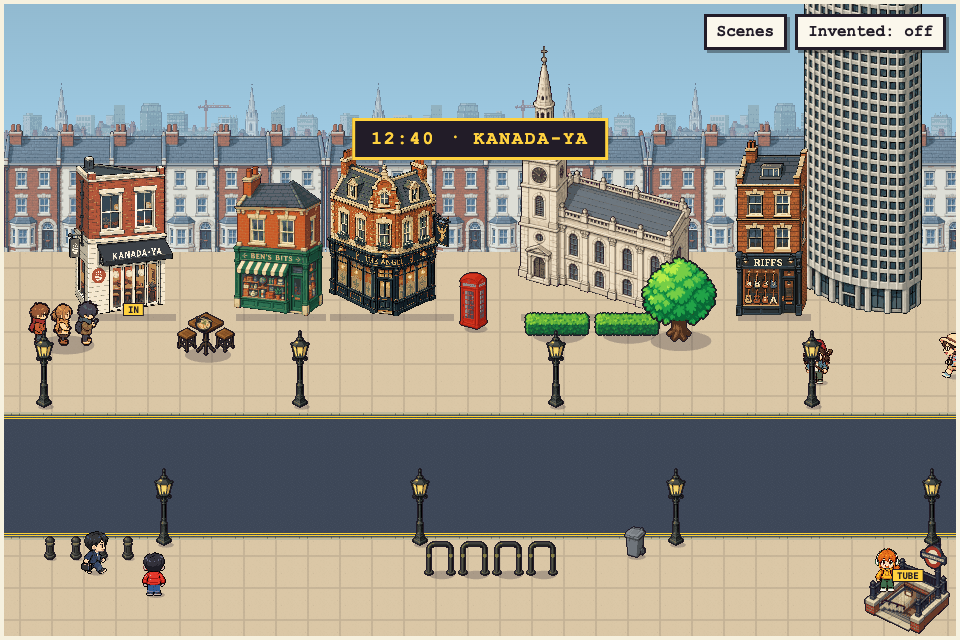
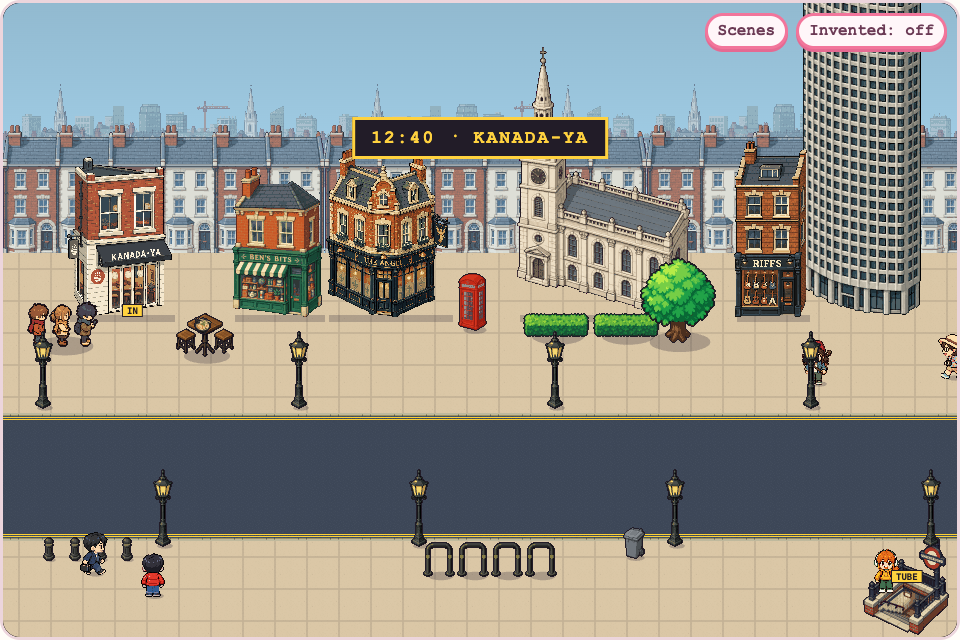
Demo: pink redesign for the generating screen and day page; three photos required before the world is ready
- /generating and /day/demo use the reworked design (top bar, pastel cards,
  pixel headings, pill buttons); the game keeps its 960x640 frame
- Try me shows 'N of 3 photos added' and outlines missing slots until Fit,
  Food and Place are all in; Create my world stays disabled until then
- in-game Scenes / Invented buttons in the pink palette

Changed region(s): [[0.0, 0.0, 1.0, 1.0], [0.2812, 0.5312, 0.3438, 0.5938]]

diff --git a/components/day/DemoDayViewer.tsx b/components/day/DemoDayViewer.tsx
@@ -2,11 +2,14 @@
 
 import Link from "next/link";
 import { useEffect, useRef, useState } from "react";
+import { createPortal } from "react-dom";
 import { DEMO_DAY, DEMO_SPRITE_URL } from "@/lib/demo";
-import styles from "./day.module.css";
+import PixelSprite from "@/components/today/pixel";
+import SoundToggle from "@/components/today/SoundToggle";
+import styles from "./demo-day.module.css";
 
-const box = { background: "#fbf7ec", color: "#221c28", border: "4px solid #221c28", boxShadow: "inset 0 0 0 4px #e3d9bd, 6px 6px 0 rgba(0,0,0,.45)", padding: "18px 22px", width: "min(420px, calc(100vw - 32px))", textAlign: "center" as const, font: "700 13px monospace" };
-const btn = { background: "#fff", color: "#221c28", border: "3px solid #221c28", padding: "6px 12px", font: "700 12px monospace", cursor: "pointer", boxShadow: "3px 3px 0 rgba(0,0,0,.25)" };
+const tabs = [{ href: "/", id: "try", label: "Try me" }, { href: "/demo", id: "demo", label: "Demo" }] as const;
+const cardTones = ["dq-card-pink", "dq-card-butter", "dq-card-mint"] as const;
 
 /** Demo-only "share as video clip": a short render bar, then a looping preview of the day's places. Calls nothing. */
 function ClipShare() {
@@ -32,21 +35,21 @@ function ClipShare() {
   useEffect(() => { if (!toast) return; const t = setTimeout(() => setToast(""), 1400); return () => clearTimeout(t); }, [toast]);
   const scene = DEMO_DAY.scenes[frame];
   return <>
-    <button type="button" className={styles.share} onClick={() => { setProgress(0); setFrame(0); setState("rendering"); }}>SHARE AS VIDEO CLIP ▶</button>
-    {state !== "idle" && <div role="dialog" aria-label="Share as video clip" style={{ position: "fixed", inset: 0, zIndex: 20, display: "grid", placeItems: "center", background: "rgba(16,14,22,.7)" }}>
-      <div style={box}>
-        {state === "rendering" ? <><p>RENDERING YOUR DAY…</p><div style={{ height: 12, border: "3px solid #221c28", background: "#fff" }}><span style={{ display: "block", height: "100%", width: `${progress * 100}%`, background: "#d8342c" }} /></div></> : <>
-          <div style={{ aspectRatio: "3 / 2", border: "3px solid #221c28", background: "#a9d4f5", display: "grid", placeItems: "center", position: "relative" }}>
-            <img src={scene.thumb} alt={scene.title} style={{ maxHeight: "80%", maxWidth: "80%", imageRendering: "pixelated" }} />
-            <span style={{ position: "absolute", left: 8, bottom: 6, background: "#221c28", color: "#ffd23f", padding: "2px 6px", fontSize: 11 }}>{scene.time} · {scene.title.toUpperCase()}</span>
+    <button type="button" className={`dq-big-button ${styles.pill}`} onClick={() => { setProgress(0); setFrame(0); setState("rendering"); }}>SHARE AS VIDEO CLIP ▶</button>
+    {state !== "idle" && createPortal(<div role="dialog" aria-label="Share as video clip" className={styles.overlay}>
+      <div className={`dq-card dq-card-pink ${styles.modal}`}>
+        {state === "rendering" ? <><p>Rendering your day…</p><div className={styles.bar}><span style={{ width: `${progress * 100}%` }} /></div></> : <>
+          <div className={styles.preview}>
+            <img src={scene.thumb} alt={scene.title} />
+            <span>{scene.time} · {scene.title}</span>
           </div>
           <p>{DEMO_DAY.name.toLowerCase()}-day.mp4 · 0:30</p>
-          <div style={{ display: "flex", gap: 10, justifyContent: "center" }}>{([["Copy link", "Copied!"], ["Save", "Saved!"], ["Post", "Shared!"]] as const).map(([label, msg]) => <button key={label} type="button" style={btn} onClick={() => setToast(msg)}>{label}</button>)}</div>
-          <button type="button" onClick={() => setState("idle")} style={{ ...btn, border: 0, boxShadow: "none", background: "none", textDecoration: "underline", marginTop: 10 }}>Close</button>
+          <div className={styles.modalActions}>{([["Copy link", "Copied!"], ["Save", "Saved!"], ["Post", "Shared!"]] as const).map(([label, msg]) => <button key={label} type="button" className="dq-small-button" onClick={() => setToast(msg)}>{label}</button>)}</div>
+          <button type="button" onClick={() => setState("idle")} className={styles.close}>Close</button>
         </>}
       </div>
-      {toast && <p role="status" style={{ position: "fixed", bottom: 24, left: "50%", transform: "translateX(-50%)", background: "#221c28", color: "#ffd23f", border: "3px solid #ffd23f", padding: "8px 16px", font: "700 13px monospace" }}>{toast}</p>}
-    </div>}
+      {toast && <p role="status" className={styles.toast}>{toast}</p>}
+    </div>, document.body)}
   </>;
 }
 
@@ -66,36 +69,47 @@ export function DemoDayViewer() {
       setShareState("fallback");
     }
   }
-  return <main className={styles.viewer}>
-    <header className={styles.header}>
-      <Link href="/" className={styles.brand}>DAYQUEST<span>A day worth visiting</span></Link>
-      <div style={{ display: "flex", gap: 10, flexWrap: "wrap" }}>
-        <ClipShare />
-        <button type="button" onClick={share} className={styles.share}>{shareState === "copied" ? "LINK COPIED ✓" : "SHARE THIS DAY ↗"}</button>
-      </div>
-    </header>
-    <p className={styles.shareStatus} aria-live="polite">{shareState === "copied" ? "Day link copied to clipboard." : ""}</p>
-    {shareState === "fallback" && <label className={styles.copyLabel}>Copy this day link<input readOnly value={shareUrl} onFocus={(event) => event.target.select()} aria-label="Day share link" /></label>}
-    <section className={styles.intro}>
-      <div><p className={styles.kicker}>A LITTLE WINDOW INTO THEIR DAY</p><h1>{DEMO_DAY.name}&apos;s day</h1><p className={styles.date}>{DEMO_DAY.date}</p></div>
-      {/* The sprite is already pixel processed; preserve its exact pixels. */}
-      <div className={styles.player}><img src={DEMO_SPRITE_URL} width={64} height={96} alt={`${DEMO_DAY.name}'s character`} /></div>
-    </section>
-    <section aria-label="Playable day" style={{ display: "flex", flexDirection: "column", alignItems: "center", background: "#1f1a2e", padding: 12 }}>
-      <p style={{ color: "#f6f1df", font: "11px monospace", lineHeight: 1.6, textAlign: "center", margin: "0 0 8px" }}>
-        Click the world to play · Arrows / WASD: walk · Shift: run · Space / Enter: read · Walk onto the yellow signs to travel
-      </p>
-      <iframe ref={frame} src={DEMO_DAY.game} title={`${DEMO_DAY.name}'s day in London`} onLoad={() => frame.current?.focus()}
-        style={{ width: "100%", maxWidth: 960, height: "clamp(440px, 66.6vw, 640px)", border: "4px solid #f6f1df", background: "#14121a" }} />
-    </section>
-    <section className={styles.itinerary} aria-labelledby="itinerary-title">
-      <div className={styles.sectionHeading}><h2 id="itinerary-title">Today&apos;s places</h2><span>{DEMO_DAY.scenes.length} CHAPTERS</span></div>
-      <ol className={styles.scenes}>{DEMO_DAY.scenes.map((scene, index) => <li key={scene.title}>
-        <span className={styles.sceneNumber}>0{index + 1}</span><p className={styles.kicker}>{scene.time} · {scene.kind.toUpperCase()}</p><h3>{scene.title}</h3>
-        <p>{scene.landmarks.join(" · ")}</p><p>{scene.text}</p>
-        {index < DEMO_DAY.transit.length && <p className={styles.kicker}>↓ {DEMO_DAY.transit[index]}</p>}
-      </li>)}</ol>
-    </section>
-    <footer className={styles.footer}><span>Every day becomes a place you can visit.</span><Link href="/">Create your day →</Link></footer>
-  </main>;
+  // Same frame as AppShell, but the game gets its own wider column so the iframe can stay ≥960px.
+  return <div className="dq-app">
+    <div className="dq-sky" aria-hidden="true"><PixelSprite name="cloud" size={6} className="dq-cloud dq-cloud-a" /><PixelSprite name="cloud" size={4} className="dq-cloud dq-cloud-b" /></div>
+    <header className="dq-topbar"><Link href="/" className="dq-wordmark"><PixelSprite name="cat" size={2.5} className="dq-logo-sprite" /><span>dayquest</span></Link>
+      <div className="dq-topbar-end"><nav className="dq-tabs" aria-label="Pages">{tabs.map(tab => <Link key={tab.id} href={tab.href} className={tab.id === "demo" ? "is-active" : undefined} aria-current={tab.id === "demo" ? "page" : undefined}>{tab.label}</Link>)}</nav><SoundToggle /></div></header>
+    <main className="dq-main">
+      <section className="dq-card dq-card-lav">
+        <div className={styles.head}>
+          <div className={styles.title}><span className={styles.kicker}>A little window into their day</span><h1>{DEMO_DAY.name}&apos;s day</h1><p className={styles.sub}>{DEMO_DAY.date}</p></div>
+          {/* The sprite is already pixel processed; preserve its exact pixels. */}
+          <div className={styles.player}><img src={DEMO_SPRITE_URL} width={64} height={96} alt={`${DEMO_DAY.name}'s character`} /></div>
+        </div>
+        <div className={styles.shareRow}>
+          <ClipShare />
+          <button type="button" onClick={share} className={`dq-big-button ${styles.pill}`}>{shareState === "copied" ? "LINK COPIED ✓" : "SHARE THIS DAY ↗"}</button>
+        </div>
+        <p className={styles.status} aria-live="polite" hidden={shareState !== "copied"}>{shareState === "copied" ? "Day link copied to clipboard." : ""}</p>
+        {shareState === "fallback" && <label className={styles.copy}>Copy this day link<input readOnly value={shareUrl} onFocus={(event) => event.target.select()} aria-label="Day share link" /></label>}
+      </section>
+    </main>
+    <div className={styles.gameWrap}>
+      <section aria-label="Playable day" className={styles.game}>
+        <p className={styles.hint}>Click the world to play · Arrows / WASD: walk · Shift: run · Space / Enter: read · Walk onto the yellow signs to travel</p>
+        <iframe ref={frame} src={DEMO_DAY.game} title={`${DEMO_DAY.name}'s day in London`} onLoad={() => frame.current?.focus()} className={styles.frame} />
+      </section>
+    </div>
+    <div className="dq-main">
+      <section aria-labelledby="itinerary-title" style={{ display: "grid", gap: 18 }}>
+        <div className={styles.sectionHead}><h2 id="itinerary-title">Today&apos;s places</h2><span className={styles.count}>{DEMO_DAY.scenes.length} chapters</span></div>
+        <ol className={styles.scenes}>{DEMO_DAY.scenes.map((scene, index) => <li key={scene.title} className={`dq-card ${cardTones[index % cardTones.length]} ${styles.scene}`}>
+          <div className={styles.sceneTop}>
+            <div className={styles.thumb}><img src={scene.thumb} alt="" /></div>
+            <div><span className={styles.kicker}>0{index + 1} · {scene.time} · {scene.kind}</span><h3>{scene.title}</h3></div>
+          </div>
+          <p className={styles.landmarks}>{scene.landmarks.join(" · ")}</p>
+          <p className={styles.text}>{scene.text}</p>
+          {index < DEMO_DAY.transit.length && <span className={`dq-chip ${styles.leg} ${index % 2 ? styles.legMint : ""}`}>↓ {DEMO_DAY.transit[index]}</span>}
+        </li>)}</ol>
+      </section>
+      <div className={styles.cta}><p>Every day becomes a place you can visit.</p><Link href="/" className="dq-big-button">Create your day →</Link></div>
+    </div>
+    <footer className="dq-footer"><PixelSprite name="flower" size={2} /><span>Share your day with someone you love</span><PixelSprite name="flower" size={2} /></footer>
+  </div>;
 }

diff --git a/components/today/Today.tsx b/components/today/Today.tsx
@@ -231,7 +231,11 @@ export default function Today({ demo = false }: { demo?: boolean }) {
   const pendingChanges = Object.values(photos).some(p => p.pending) || gallery.failed;
   const pendingFitChanges = !!photos.fit?.pending;
   const spriteReady = !!spriteUrl && spriteVerification?.url === spriteUrl && spriteVerification.status === "ready";
-  const canFinish = !!photos.fit?.url && spriteReady && !pendingChanges && !uploading && !spriteBusy && !storageError;
+  // all three asked-for photos (fit, food, place) must be in before the world can be made
+  const have = { fit: !!photos.fit?.url, lunch: gallery.items.some(item => item.kind === "lunch" && item.url), landmark: gallery.items.some(item => item.kind === "landmark" && item.url) };
+  const added = Object.values(have).filter(Boolean).length, allThree = added === 3;
+  const missingNames = [!have.fit && "Fit", !have.lunch && "Food", !have.landmark && "Place"].filter(Boolean).join(" and ");
+  const canFinish = allThree && spriteReady && !pendingChanges && !uploading && !spriteBusy && !storageError;
   function finishDay() {
     if (!canFinish || Object.keys(pendingFiles.current).length || generationRunning.current) return;
     if (DEMO_MODE) { sfx.fanfare(); router.push("/generating"); return; }
@@ -250,14 +254,14 @@ export default function Today({ demo = false }: { demo?: boolean }) {
       setStorageError("Your browser could not save this draft. Enable session storage to continue.");
     }
   }
-  const finishHint = spriteBusy ? "Making your character…" : !photos.fit?.url ? "Add your fit to begin" : uploading ? "Saving…" : pendingChanges ? "Retry or remove failed photos" : spriteReady ? "All set!" : spriteUrl ? "Check your character preview" : "Waiting for your character";
+  const finishHint = !allThree && !spriteBusy ? `${added} of 3 photos added · add your ${missingNames} photo` : spriteBusy ? "Making your character…" : !photos.fit?.url ? "Add your fit to begin" : uploading ? "Saving…" : pendingChanges ? "Retry or remove failed photos" : spriteReady ? "All set!" : spriteUrl ? "Check your character preview" : "Waiting for your character";
   return <AppShell active={demo ? "demo" : "try"}>
     <section className="dq-card dq-card-pink" aria-labelledby="photos-title">
       <div className="dq-quest-head">
         <div className="dq-quest-title"><span className="dq-date">{today ? today.toLocaleDateString("en-GB", { weekday: "long", day: "numeric", month: "long" }) : "\u00a0"}</span><h1 id="photos-title">{demo ? "Lucas · sample day" : "Your day"}</h1><p className="dq-subtitle">{demo ? "A sample made with demo photos." : "What did today look like?"}</p></div>
         <span className="dq-chip dq-chip-pink" aria-label={`${uploaded} photos added`}>{uploaded} {uploaded === 1 ? "photo" : "photos"}</span>
       </div>
-      <div className="dq-photo-grid">{quests.map(quest => { const photo = photos[quest.kind]; return <div className={`dq-photo-card dq-photo-${quest.kind} ${photo?.url ? "is-uploaded" : ""}`} key={quest.kind}>
+      <div className="dq-photo-grid">{quests.map(quest => { const photo = photos[quest.kind]; return <div className={`dq-photo-card dq-photo-${quest.kind} ${photo?.url ? "is-uploaded" : ""}`} key={quest.kind} style={!photo?.url && !demo ? { outline: "3px dashed #f2759b", outlineOffset: 3 } : undefined}>
         <div className="dq-photo-head"><h3>{quest.name}</h3>{!demo && <CameraButton label={`Take a photo for ${quest.name}`} disabled={!sessionId} onFile={file => void upload(quest.kind, file)} />}</div>
         <label className="dq-upload-zone" onDragOver={event => event.preventDefault()} onDrop={event => { event.preventDefault(); void upload(quest.kind, event.dataTransfer.files[0]); }}>
           <input type="file" accept="image/jpeg,image/png,image/webp" aria-label={`Upload ${quest.name}`} disabled={!sessionId} onChange={event => { void upload(quest.kind, event.target.files?.[0]); event.target.value = ""; }}/>
@@ -270,11 +274,12 @@ export default function Today({ demo = false }: { demo?: boolean }) {
           {photo?.error && <><p className="dq-error" role="alert">{photo.error}</p>{photo.pending && <div className="dq-actions"><button type="button" className="dq-small-button" onClick={() => void upload(quest.kind, pendingFiles.current[quest.kind])}>Retry</button><button type="button" className="dq-small-button" onClick={() => discardReplacement(quest.kind)}>{photo.url ? "Keep old" : "Discard"}</button></div>}</>}
         </div>}
       </div>; })}
-        {galleries.map(g => <GalleryCard key={g.kind} title={g.name} sprite={g.sprite} kind={g.kind} wide={"wide" in g} readOnly={demo} ready={!!sessionId} items={gallery.items.filter(item => item.kind === g.kind)} onAdd={files => gallery.add(g.kind, files)} onRemove={gallery.remove} onRetry={gallery.retry} onNote={gallery.setNote} />)}
+        {galleries.map(g => <GalleryCard key={g.kind} missing={g.kind !== "extra" && !have[g.kind] && !demo} title={g.name} sprite={g.sprite} kind={g.kind} wide={"wide" in g} readOnly={demo} ready={!!sessionId} items={gallery.items.filter(item => item.kind === g.kind)} onAdd={files => gallery.add(g.kind, files)} onRemove={gallery.remove} onRetry={gallery.retry} onNote={gallery.setNote} />)}
       </div>
       {!demo && <p className="dq-cta-hint">The first Place and Food photos anchor your world. Other photos and notes add context.</p>}
       {gallery.notice && <p className="dq-error" role="alert">{gallery.notice}</p>}
-      {spriteUrl ? <SpritePreview url={spriteUrl} onStatusChange={setSpriteVerification} onRegenerate={() => void makeSprite()} disabled={demo || spriteBusy || uploading || pendingChanges} retained={pendingChanges} /> : <div className="dq-sprite-status" aria-live="polite"><PixelSprite name="face" size={4} className={spriteBusy ? "dq-hop" : undefined}/><div><strong>{spriteBusy ? "Making your character…" : "Your character"}</strong><span>{spriteError || (spriteBusy ? "Just a minute" : "Add a fit photo to start")}</span></div>{spriteError && <button type="button" className="dq-small-button" disabled={spriteBusy || pendingFitChanges} onClick={() => void makeSprite()}>Retry</button>}</div>}
+      {!allThree && <div className="dq-sprite-status" aria-live="polite"><PixelSprite name="face" size={4}/><div><strong>{added} of 3 photos added</strong><span>Add your {missingNames} photo to get your adventure ready.</span></div></div>}
+      <div hidden={!allThree}>{spriteUrl ? <SpritePreview url={spriteUrl} onStatusChange={setSpriteVerification} onRegenerate={() => void makeSprite()} disabled={demo || spriteBusy || uploading || pendingChanges} retained={pendingChanges} /> : <div className="dq-sprite-status" aria-live="polite"><PixelSprite name="face" size={4} className={spriteBusy ? "dq-hop" : undefined}/><div><strong>{spriteBusy ? "Making your character…" : "Your character"}</strong><span>{spriteError || (spriteBusy ? "Just a minute" : "Add a fit photo to start")}</span></div>{spriteError && <button type="button" className="dq-small-button" disabled={spriteBusy || pendingFitChanges} onClick={() => void makeSprite()}>Retry</button>}</div>}</div>
       <div className="dq-places">
         <PixelSprite name="pin" size={4}/>
         <div><strong>Location history</strong><span className={placesError ? "dq-error" : undefined} role={placesError ? "alert" : undefined}>{placesError || (places ? `${places.count.toLocaleString("en-GB")} places${places.range ? ` · ${places.range}` : ""}` : "Google Timeline JSON or GPX")}</span></div>

diff --git a/app/generating/page.tsx b/app/generating/page.tsx
@@ -7,6 +7,8 @@ import type { GenerateEvent } from "@/pipeline/types";
 import type { WorldJob } from "@/lib/world-job";
 import { DRAFT_STORAGE_KEY, isReadyDraft, parseStoredDraft } from "@/lib/draft";
 import { DEMO_DAY, DEMO_EVENTS, DEMO_MODE } from "@/lib/demo";
+import AppShell from "@/components/today/AppShell";
+import PixelSprite from "@/components/today/pixel";
 import styles from "./generating.module.css";
 
 type Status = "running" | "done" | "error" | "no-draft";
@@ -79,22 +81,32 @@ export default function GeneratingPage() {
 
   useEffect(() => { logRef.current?.lastElementChild?.scrollIntoView({ block: "nearest" }); }, [events]);
 
-  if (status === "no-draft") return <main className="page-shell">
-    <p className="eyebrow">DAYQUEST · YOUR WORLD</p><h1>Start with your photos.</h1>
-    <p>Add your outfit on Today, finish your character, then create a world from your place and lunch photos.</p>
-    <Link href="/">Back to Today</Link>
-  </main>;
+  if (status === "no-draft") return <AppShell active="try"><section className={`dq-card dq-card-butter ${styles.card}`}>
+    <span className={styles.eyebrow}>DayQuest · your world</span><h1 className={styles.title}>Start with your photos.</h1>
+    <p className={styles.summary}>Add your outfit on Today, finish your character, then create a world from your place and lunch photos.</p>
+    <p className={styles.actions}><Link href="/" className="dq-small-button">Back to Today</Link></p>
+  </section></AppShell>;
 
-  return <main className={styles.screen}><section className={styles.box} aria-live="polite">
-    <p className={styles.title}>{status === "done" ? "YOUR WORLD IS READY" : "TURNING YOUR PHOTOS INTO A PLACE"}</p>
+  const done = status === "done";
+  const pct = progress.total > 0 ? Math.round((progress.completed / progress.total) * 100) : 0;
+  return <AppShell active={DEMO_MODE ? "demo" : "try"}><section className={`dq-card dq-card-pink ${styles.card}`} aria-live="polite">
+    <div className={styles.head}>
+      <PixelSprite name={done ? "heart" : "star"} size={3} className={done ? styles.headSprite : `${styles.headSprite} dq-hop`} />
+      <div className={styles.headText}><span className={styles.eyebrow}>{done ? "All done" : "Building your world"}</span>
+        <h1 className={styles.title}>{done ? "Your world is ready!" : "Turning your photos into a place"}</h1></div>
+      {progress.total > 0 && <span className={`dq-chip ${done ? "dq-chip-mint" : "dq-chip-pink"}`}>{progress.completed} / {progress.total}</span>}
+    </div>
     <p className={styles.summary}>Buildings, little details, lunch, your walking character, and item interactions. Completed work is saved as we go.</p>
-    {progress.total > 0 && <div className={styles.progress}><span>{progress.completed} / {progress.total} sprites saved</span><progress aria-label="Sprites saved" max={progress.total} value={progress.completed} /></div>}
+    {progress.total > 0 && <div className={styles.progress}>
+      <div className={styles.progressLabel}><span>{progress.completed} / {progress.total} sprites saved</span><span>{pct}%</span></div>
+      <div className={styles.bar} role="progressbar" aria-label="Sprites saved" aria-valuemin={0} aria-valuemax={progress.total} aria-valuenow={progress.completed}><span style={{ width: `${pct}%` }} /></div>
+    </div>}
     <ol className={styles.log} ref={logRef}>{events.map((event, i) => <li key={i} className={event.step === "error" ? styles.error : undefined}>
       <span className={styles.prompt}>&gt;</span><span className={styles.label}>{event.label}</span>
-      {event.thumb && <img className={styles.thumb} src={event.thumb} alt="Completed sprite" />}
+      {event.thumb && <span className={styles.thumb}><img src={event.thumb} alt="Completed sprite" /></span>}
       {event.step === "done" && <span className={styles.arrow}>→</span>}
-    </li>)}{status === "running" && <li><span className={styles.prompt}>&gt;</span><span className={styles.cursor}>▌</span><span>{progress.total > 0 && progress.completed === progress.total ? "Preparing interactions and finishing your world…" : "Creating the next piece…"}</span></li>}</ol>
-    {status === "error" && error && <p role="alert" className={styles.error}>{error}</p>}
-    {status === "error" && <p className={styles.actions}><button type="button" onClick={() => setAttempt(n => n + 1)}>CONTINUE BUILDING</button><Link href="/">BACK TO TODAY</Link></p>}
-  </section></main>;
+    </li>)}{status === "running" && <li><span className={styles.prompt}>&gt;</span><span className={styles.label}>{progress.total > 0 && progress.completed === progress.total ? "Preparing interactions and finishing your world…" : "Creating the next piece…"}<span className={styles.cursor}>▌</span></span></li>}</ol>
+    {status === "error" && error && <p role="alert" className={`${styles.error} ${styles.alert}`}>{error}</p>}
+    {status === "error" && <p className={styles.actions}><button type="button" className="dq-big-button" onClick={() => setAttempt(n => n + 1)}>Continue building</button><Link href="/" className="dq-small-button">Back to Today</Link></p>}
+  </section></AppShell>;
 }

diff --git a/app/generating/generating.module.css b/app/generating/generating.module.css
@@ -1,25 +1,31 @@
-.screen { min-height: 100vh; display: flex; align-items: center; justify-content: center; padding: 24px 16px; background: #1f2b24; }
-.box {
-  width: min(760px, 100%); background: #fbf8ec; color: #24352b; padding: 24px 26px;
-  border: 4px solid #24352b; box-shadow: inset 0 0 0 3px #fbf8ec, inset 0 0 0 6px #7e9567, 6px 6px 0 #0d1510;
-  font-family: "Pixelify Sans", var(--mono), monospace;
+.card { gap: 16px; }
+.head { display: flex; align-items: center; gap: 14px; }
+.headSprite { flex: none; image-rendering: pixelated; }
+.headText { flex: 1; min-width: 0; }
+.eyebrow { display: block; font-family: var(--mono); font-size: 11px; letter-spacing: 1px; text-transform: uppercase; color: var(--hot); margin-bottom: 2px; }
+.title { margin: 0; font-family: var(--pixel); font-weight: 500; font-size: 30px; line-height: 1.1; }
+.summary { margin: 0; font-size: 14px; line-height: 1.6; color: var(--muted); }
+.progress { display: grid; gap: 8px; }
+.progressLabel { display: flex; justify-content: space-between; font-family: var(--pixel); font-size: 16px; }
+.bar { height: 18px; border: 3px solid #f5c2d2; border-radius: 999px; background: #fff5f8; overflow: hidden; }
+.bar span { display: block; height: 100%; background: var(--hot); border-radius: 999px; transition: width .4s steps(6); background-image: repeating-linear-gradient(90deg, transparent 0 10px, #ffffff40 10px 14px); }
+.log {
+  list-style: none; margin: 0; padding: 14px 16px; max-height: 52vh; overflow-y: auto; display: flex; flex-direction: column; gap: 8px;
+  background: #fff5f8; border: 3px dashed #f5c2d2; border-radius: 22px;
+  font-family: var(--pixel); font-size: 17px; line-height: 1.35;
 }
-.title { margin: 0 0 16px; font-size: 13px; letter-spacing: 2px; color: var(--orange); }
-.summary { font-family: var(--sans); font-size: 13px; line-height: 1.6; margin: 0 0 18px; color: #586a55; }
-.progress { display: grid; gap: 8px; margin-bottom: 20px; font-size: 12px; }
-.progress progress { width: 100%; height: 10px; accent-color: #7e9567; }
-.log { list-style: none; margin: 0; padding: 0; max-height: 60vh; overflow-y: auto; display: grid; gap: 10px; font-size: 15px; line-height: 1.4; }
-.log li { display: flex; align-items: center; gap: 10px; min-height: 28px; animation: pop .18s steps(3) both; }
-.prompt { color: #7e9567; flex-shrink: 0; }
+.log li { flex-shrink: 0; display: flex; align-items: center; gap: 10px; min-height: 30px; animation: pop .18s steps(3) both; }
+.prompt { color: var(--hot); flex-shrink: 0; }
 .label { flex: 1; min-width: 0; overflow-wrap: anywhere; }
-.thumb { height: 48px; width: auto; max-width: 80px; image-rendering: pixelated; flex-shrink: 0; }
-.arrow { color: var(--orange); }
-.error { color: #a14235; }
-.cursor { animation: blink 1s steps(2) infinite; }
-.actions { display: flex; gap: 16px; align-items: center; margin: 20px 0 0; font-size: 13px; }
-.actions button { border: 3px solid #24352b; background: #7e9567; color: #fbf8ec; padding: 8px 14px; font: inherit; letter-spacing: 1px; }
-.actions a { color: #24352b; }
+.thumb { flex-shrink: 0; display: block; overflow: hidden; box-sizing: border-box; width: 52px; height: 52px; padding: 4px; background: #fff; border: 2px solid var(--edge); border-radius: 14px; box-shadow: 2px 2px 0 var(--shadow); }
+.thumb img { display: block; width: 100%; height: 100%; min-height: 0; object-fit: contain; image-rendering: pixelated; }
+.arrow { color: var(--hot); }
+.error { color: #d2566f; }
+.alert { margin: 0; font-size: 13px; line-height: 1.5; }
+.cursor { margin-left: 4px; color: var(--hot); animation: blink 1s steps(2) infinite; }
+.actions { display: flex; flex-wrap: wrap; gap: 12px; align-items: center; margin: 0; }
+.actions :global(.dq-small-button) { margin-left: 0; text-decoration: none; color: var(--ink); }
 @keyframes blink { 50% { opacity: 0; } }
 @keyframes pop { from { opacity: 0; transform: translateY(4px); } }
-@media (max-width: 620px) { .box { padding: 18px 16px; } .log { font-size: 13px; } .thumb { height: 36px; } }
-@media (prefers-reduced-motion: reduce) { .log li, .cursor { animation: none; } }
+@media (max-width: 640px) { .title { font-size: 22px; } .log { font-size: 15px; padding: 12px; } .thumb { width: 42px; height: 42px; } .head :global(.dq-chip) { display: none; } }
+@media (prefers-reduced-motion: reduce) { .log li, .cursor, .bar span { animation: none; transition: none; } }

diff --git a/components/day/demo-day.module.css b/components/day/demo-day.module.css
@@ -1,0 +1,45 @@
+.head{display:flex;align-items:center;gap:16px}
+.title{flex:1;min-width:0}
+.title h1{font-family:var(--pixel);font-weight:500;font-size:34px;line-height:1.1}
+.kicker{display:block;font-family:var(--mono);font-size:11px;letter-spacing:1px;text-transform:uppercase;color:var(--muted);margin-bottom:4px}
+.sub{font-size:14px;color:var(--muted);margin-top:4px}
+.player{flex:none;display:grid;place-items:center;width:88px;height:112px;border-radius:22px;background:#f6f1fd;border:3px dashed #d3c6f0}
+.player img{image-rendering:pixelated;animation:dq-bob 2.4s steps(2) infinite}
+.shareRow{display:flex;flex-wrap:wrap;gap:12px}
+.shareRow .pill{flex:1 1 240px;width:auto;font-size:18px;padding:14px 22px}
+.status{font-size:13px;color:#3f8a62;margin-top:-6px}
+.copy{display:grid;gap:6px;font-size:13px;color:var(--muted)}
+.copy input{border:2px solid var(--edge);border-radius:12px;background:#fff;padding:8px 10px;font-size:13px}
+.gameWrap{position:relative;z-index:1;box-sizing:border-box;width:min(1040px,100%);margin:0 auto;padding:0 20px}
+.game{box-sizing:border-box;max-width:1000px;margin:0 auto;background:var(--panel);border:3px solid #bfe0d0;border-radius:30px;box-shadow:6px 6px 0 #dcf1e6;padding:14px 17px;display:grid;gap:12px;justify-items:center}
+.hint{font-family:var(--pixel);font-size:15px;color:var(--muted);text-align:center;line-height:1.4}
+.frame{display:block;width:100%;max-width:960px;min-width:0;height:clamp(440px,66.6vw,640px);border:3px solid var(--edge);border-radius:20px;background:#14121a}
+.sectionHead{display:flex;align-items:baseline;justify-content:space-between;gap:12px}
+.sectionHead h2{font-family:var(--pixel);font-weight:500;font-size:28px}
+.count{font-family:var(--pixel);font-size:14px;background:#fff;border:2px solid var(--edge);border-radius:999px;padding:2px 10px}
+.scenes{list-style:none;margin:0;padding:0;display:grid;gap:18px}
+.scene{gap:10px}
+.sceneTop{display:flex;align-items:center;gap:14px}
+.thumb{flex:none;width:64px;height:64px;border-radius:16px;background:#fff;border:2px solid var(--edge);display:grid;place-items:center;overflow:hidden}
+.thumb img{max-width:80%;max-height:80%;image-rendering:pixelated}
+.scene h3{font-family:var(--pixel);font-weight:500;font-size:24px;line-height:1.15}
+.landmarks{font-size:13px;color:var(--muted)}
+.text{font-size:14px;line-height:1.6}
+.leg{justify-self:start;font-size:14px!important;padding:3px 12px!important;background:var(--butter);border-color:#f6d9a8;color:#8a6a2a}
+.legMint{background:var(--mint);border-color:#a9dcc0;color:#3f8a62}
+.cta{display:grid;justify-items:center;gap:8px;text-align:center}
+.cta p{font-size:13px;color:var(--muted)}
+/* clip modal */
+.overlay{position:fixed;inset:0;z-index:20;display:grid;place-items:center;background:rgba(91,74,95,.45);padding:16px}
+.modal{width:min(440px,100%);text-align:center;font-size:14px}
+.modal p{font-family:var(--pixel);font-size:18px}
+.bar{height:16px;border:2px solid var(--edge);border-radius:999px;background:#fff;overflow:hidden}
+.bar span{display:block;height:100%;background:var(--hot);border-radius:999px}
+.preview{aspect-ratio:3/2;border:3px solid var(--edge);border-radius:20px;background:var(--sky);display:grid;place-items:center;position:relative;overflow:hidden}
+.preview img{max-height:78%;max-width:78%;image-rendering:pixelated}
+.preview span{position:absolute;left:10px;bottom:8px;font-family:var(--pixel);font-size:13px;background:#fffdf8;border:2px solid var(--edge);border-radius:999px;padding:1px 10px}
+.modalActions{display:flex;gap:8px;justify-content:center;flex-wrap:wrap}
+.modalActions :global(.dq-small-button){margin-left:0}
+.close{border:0;background:none;text-decoration:underline;color:var(--muted);font-size:13px;cursor:pointer}
+.toast{position:fixed;bottom:24px;left:50%;transform:translateX(-50%);font-family:var(--pixel);font-size:16px;background:var(--hot);color:#fff;border:3px solid #f2759b;border-radius:999px;padding:6px 18px;box-shadow:0 4px 0 #e56a92}
+@media(max-width:640px){.gameWrap{padding:0 14px}.game{padding:10px;border-radius:26px}.title h1{font-size:26px}.player{width:72px;height:96px}.player img{width:48px;height:72px}.scene h3{font-size:20px}}

diff --git a/components/today/GalleryCard.tsx b/components/today/GalleryCard.tsx
@@ -9,12 +9,12 @@ type Props = {
 };
 
 /** A photo slot that takes any number of photos, each with its own note. */
-export default function GalleryCard({ title, sprite, kind, items, ready, wide, readOnly, onAdd, onRemove, onRetry, onNote }: Props) {
+export default function GalleryCard({ title, sprite, kind, items, ready, wide, readOnly, onAdd, onRemove, onRetry, onNote, missing }: Props & { missing?: boolean }) {
   const picker = (label: string, className: string, children: React.ReactNode) => <label className={className} onDragOver={event => event.preventDefault()} onDrop={event => { event.preventDefault(); onAdd(event.dataTransfer.files); }}>
     <input type="file" multiple accept="image/jpeg,image/png,image/webp" aria-label={label} disabled={!ready} onChange={event => { onAdd(event.target.files); event.target.value = ""; }} />
     {children}
   </label>;
-  return <div className={`dq-photo-card dq-gallery dq-photo-${kind} ${wide ? "is-wide" : ""}`}>
+  return <div className={`dq-photo-card dq-gallery dq-photo-${kind} ${wide ? "is-wide" : ""}`} style={missing ? { outline: "3px dashed #f2759b", outlineOffset: 3 } : undefined}>
     <div className="dq-photo-head"><div className="dq-gallery-title"><h3>{title}</h3>{items.length > 0 && <span className="dq-count">{items.length}</span>}</div>{!readOnly && <CameraButton label={`Take a ${title} photo`} disabled={!ready} onFile={file => onAdd(file ? [file] : null)} />}</div>
     {items.length === 0
       ? picker(`Upload ${title} photos`, "dq-upload-zone", <><PixelSprite name={sprite} size={6} className="dq-photo-sprite" /><span className="dq-photo-action">+ Add</span></>)

diff --git a/public/london-25d/engine/style.css b/public/london-25d/engine/style.css
@@ -146,3 +146,8 @@ button { font: inherit; }
   #hud { top: 6px; right: 6px; gap: 4px; }
   #hud button { padding: 3px 6px; font-size: 11px; }
 }
+
+/* match the app's pastel pink UI around the embedded game */
+#hud button { background: #fff6f9; color: #6b3a55; border: 3px solid #f2759b; border-radius: 999px; box-shadow: 0 3px 0 #e56a92; }
+#toggle-invented[aria-pressed="true"] { background: #f2759b; color: #fff; }
+#legend { border-radius: 999px; background: rgba(107, 58, 85, .85); }
